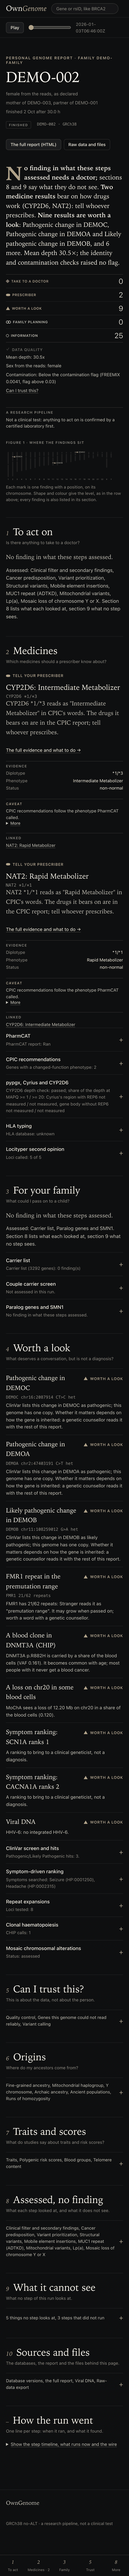
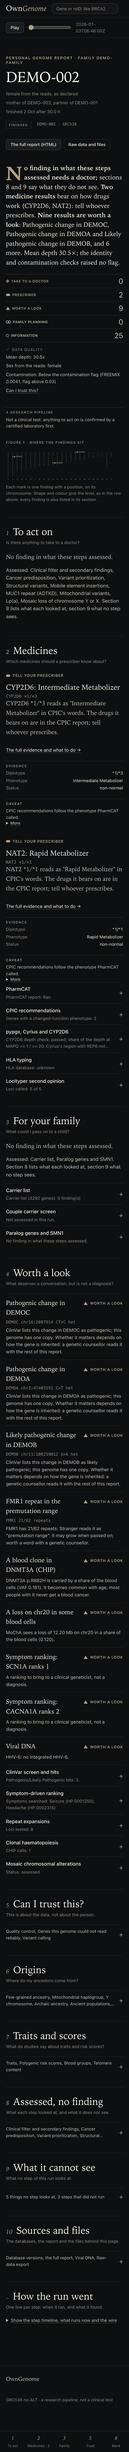
fix(live): leave room under the phone bound on Linux fonts
CI's Linux fonts drew the demo partner's phone page at 8,027 CSS px, just
over the bound. Each fold line is now at most two lines until opened, its
padding is smaller, and the links between findings are left out on a
phone (both findings stand open on the page). The page is now 7,405 CSS
px with the macOS fonts.

Bead: pgp-5bja.31

diff --git a/assets/live/live.css b/assets/live/live.css
@@ -629,12 +629,14 @@ input[type=password] { font: inherit; background: var(--paper); color: var(--ink
 .tabbar { display: none; }
 /* The phone's folds (person.js draws them only under 700 px): one line per card or section, + to open. */
 .pfold { border-top: 1px solid var(--hair); }
-.pfold > summary { display: grid; grid-template-columns: minmax(0, 1fr) auto; gap: 2px 12px; padding: 12px 0; cursor: pointer; list-style: none; }
+.pfold > summary { display: grid; grid-template-columns: minmax(0, 1fr) auto; gap: 2px 12px; padding: 9px 0; cursor: pointer; list-style: none; }
 .pfold > summary::-webkit-details-marker { display: none; }
 .pfold > summary::after { content: "+"; grid-column: 2; grid-row: 1 / span 2; align-self: center; color: var(--brass); font-size: 20px; }
 .pfold[open] > summary::after { content: "\2212"; }
 .pfold .fname { font-weight: 500; color: var(--ink); font-size: 15px; }
-.pfold .what { grid-column: 1; color: var(--ink-3); font-size: 13px; overflow-wrap: anywhere; }
+.pfold .what { grid-column: 1; color: var(--ink-3); font-size: 13px; overflow-wrap: anywhere;
+  display: -webkit-box; -webkit-box-orient: vertical; -webkit-line-clamp: 2; line-clamp: 2; overflow: hidden; }
+.pfold[open] > summary .what { -webkit-line-clamp: unset; line-clamp: unset; }
 .pfold[open] > summary { margin-bottom: 8px; }
 .secfold > summary .what { grid-row: 1 / span 2; align-self: center; color: var(--ink-2); }
 @media (max-width: 700px) {
@@ -644,7 +646,7 @@ input[type=password] { font: inherit; background: var(--paper); color: var(--ink
   .ledger a:last-child { border-bottom: 0; }
   .ledger .n { font-size: 22px; margin: 0; order: 2; }
   .ledger .w { display: none; }
-  .note.howto { display: none; }
+  .note.howto, .note.linked-note { display: none; }
   section.sec { padding-top: 26px !important; margin-top: 26px !important; }
 }
 

diff --git a/assets/live/person.js b/assets/live/person.js
@@ -492,7 +492,7 @@
     if (rel.length) {
       var box = el('div', {});
       rel.slice(0, 4).forEach(function (r, i) { if (i) { add(box, el('br', {})); } add(box, el('a', { href: '#f/' + r.id }, r.title)); });
-      add(side, note('Linked', box));
+      add(side, note('Linked', box, 'linked-note'));
     }
     add(row, art, side);
     return row;

diff --git a/docs/live-site.md b/docs/live-site.md
@@ -72,7 +72,7 @@ The header search finds a gene or rsID across the results and opens the card tha
 
 **A family** (`/runs/<family>/`). A report in five chapters, opened by a lead: how many genomes are read together, whether the couple shares a carrier gene, whether the measured relationships match the tree, and how many children. I, the pedigree, drawn from `members.tsv` or `pedigree.tsv` in the members' colours, where each sequenced person with a run here opens their page and shows how many cards their report flags, beside the members and the analyses step 38 planned. II, who is related how: step 38's relationship check beside the shared segments, as a grid of every pair, with ⚑ where the measured relationship differs from the declared one. III, each couple's carrier screen in full (genes where both carry a finding, drawn as four children with the chance for each, X-linked genes, genes where one partner does), with the screen's caveat and a link to the couple report. IV, each child: the stretches inherited from each parent painted per chromosome (coloured by grandparent where step 38 could tell), the de novo candidates and the compound-het pairs, in trans first. V, the members side by side: their CYP2D6 calls, CPIC phenotypes, HLA types, haplogroups and blood groups, one column each. On a phone the grid becomes a list of pairs.
 
-On a phone each page is one column and each table row becomes a short list of label and value. On a person's report the contents give way to a tab bar at the bottom (To act, Medicines, Family, Trust, More); under 700 px the report is short: the findings of sections 1 to 4 (to act on, medicines, family, worth a look) stay open, while the cards behind them, every information card and the bodies of sections 5 to 10 start closed, each behind one line that says what it holds. The counts read one line per level. A link to a card, a section or a finding, a search hit and a tab open the folds around it; a finding page drops its contents (the header links back to the report), and a family page keeps its chapter list above the chapters. The pages are dark.
+On a phone each page is one column and each table row becomes a short list of label and value. On a person's report the contents give way to a tab bar at the bottom (To act, Medicines, Family, Trust, More); under 700 px the report is short: the findings of sections 1 to 4 (to act on, medicines, family, worth a look) stay open, while the cards behind them, every information card and the bodies of sections 5 to 10 start closed, each behind one line that says what it holds. The counts read one line per level, and the "How to read this" note and the links between findings are left out. A link to a card, a section or a finding, a search hit and a tab open the folds around it; a finding page drops its contents (the header links back to the report), and a family page keeps its chapter list above the chapters. The pages are dark.
 
 ![The person page of DEMO-002 on a 390 px phone: the lead, the counts one line per level, the two medicine results and the nine results worth a look open, every other card one line with a plus, sections 5 to 10 each folded to one line that names what they hold, and the tab bar at the bottom](images/demo-live-phone.png){ loading=lazy width="390" }
 
